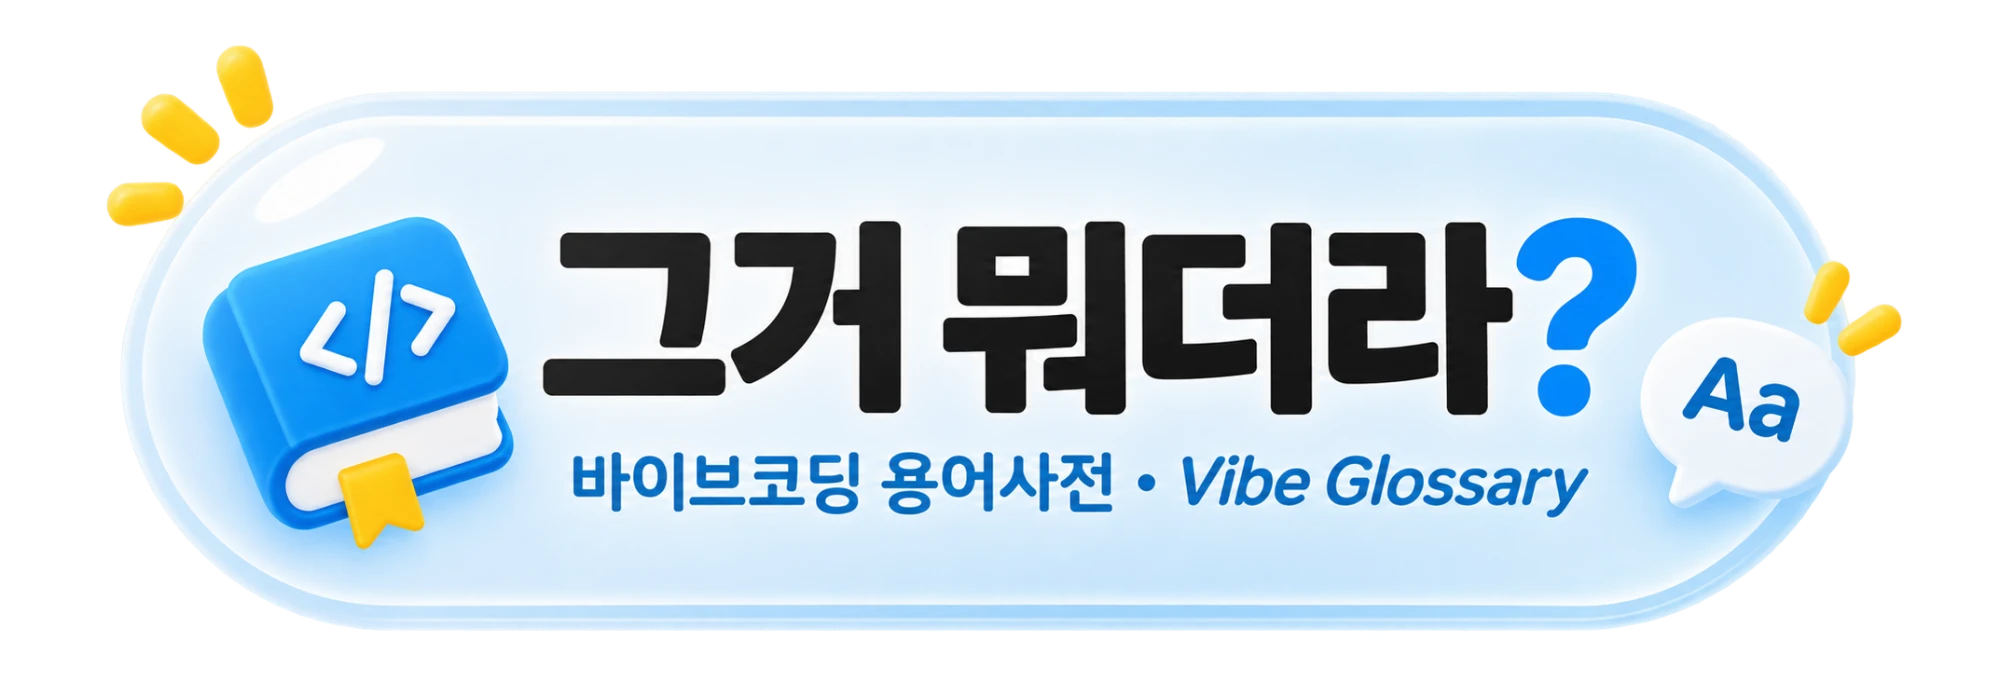
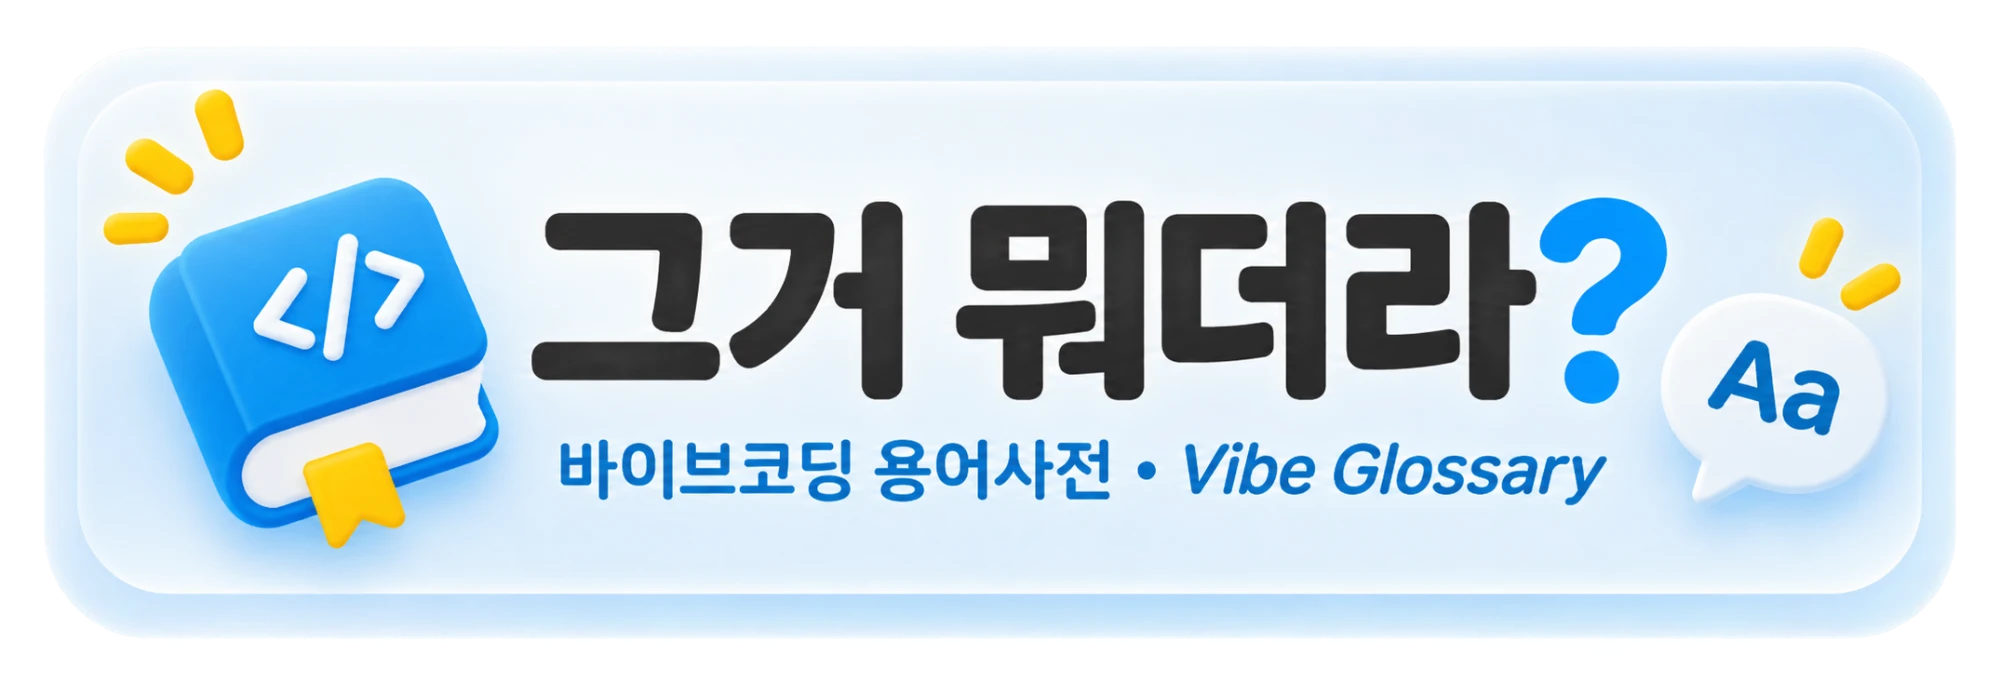
제목 로고 그림 새 버전으로 교체
Claude-Session: https://claude.ai/code/session_01MpvqfgzBxnc5pTkordpCLj

diff --git a/src/components/Sidebar.tsx b/src/components/Sidebar.tsx
@@ -24,7 +24,7 @@ export default function Sidebar({ current, activeSub, open, onClose }: Props) {
       <GlassCard as="aside" className={`${s.side} ${open ? s.open : ''}`} aria-label="카테고리">
         <NavLink to="/" className={s.brand} onClick={onClose}>
           <h1 className={s.title}>
-            <img src="/brand/title.webp" alt="그거 뭐더라? 바이브코딩 용어사전 · Vibe Glossary" width={640} height={219} />
+            <img src="/brand/title.webp" alt="그거 뭐더라? 바이브코딩 용어사전 · Vibe Glossary" width={640} height={218} />
           </h1>
         </NavLink>
 
